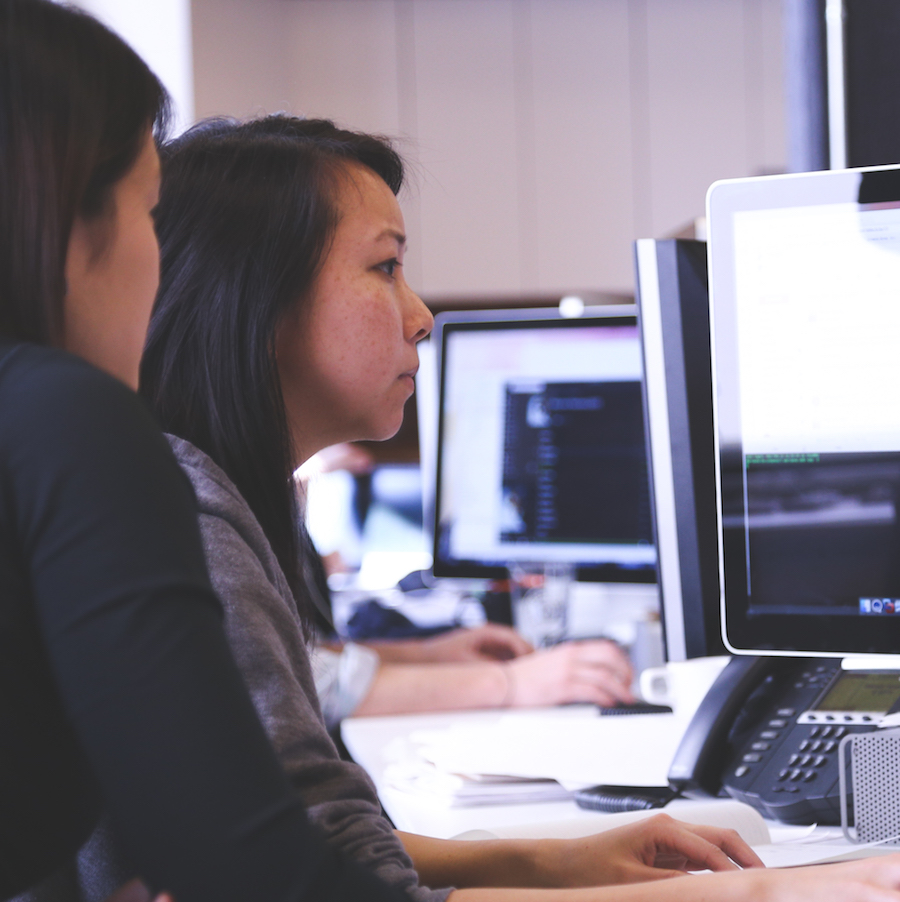
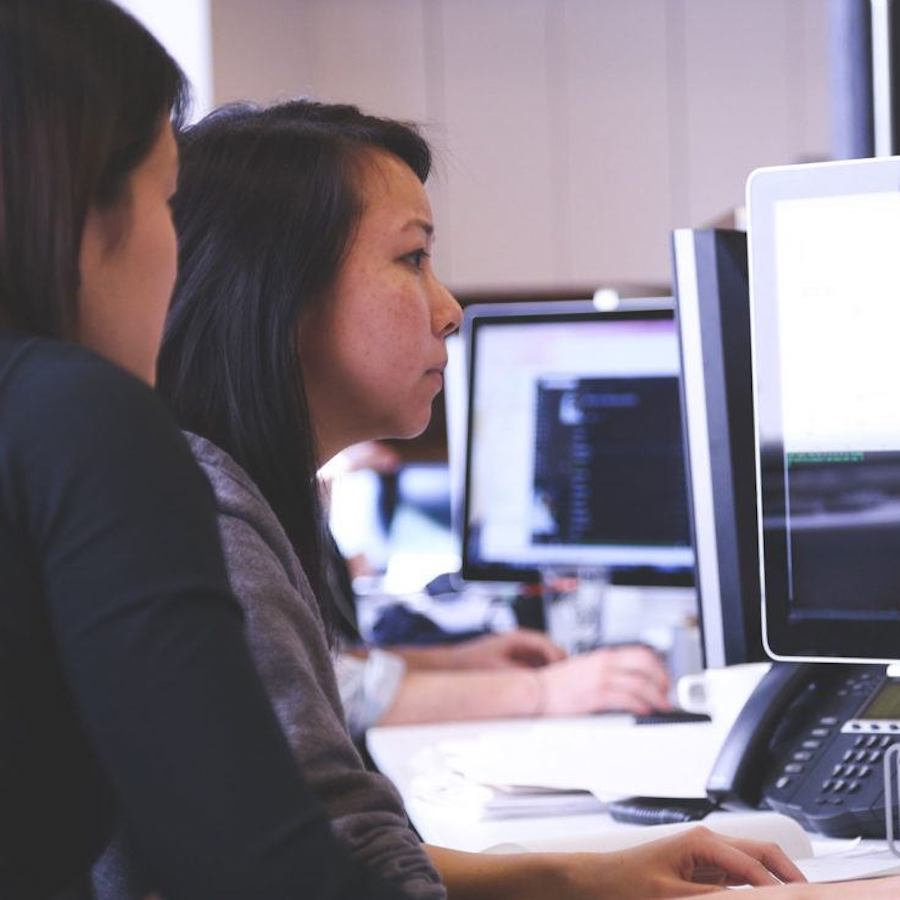
new thumbnails

diff --git a/index.html b/index.html
@@ -93,7 +93,7 @@
                 </div>
               </div>
               <div class="image-widget">
-                <img class="img-fluid" src="static/img/thumbnails/chattie3.png" alt="Smart speaker on table">
+                <img class="img-fluid" src="static/img/thumbnails/ghmm.jpg" alt="Smart speaker on table">
               </div>
               <p>Chattie: For Language Learners <br/> <span class="sub-heading"> Voice UX Design </span></p>
             </a>
@@ -106,7 +106,7 @@
                 </div>
               </div>
               <div class="image-widget">
-                <img class="img-fluid" src="static/img/thumbnails/mock.png" alt="Sketch of two people pair programming">
+                <img class="img-fluid" src="static/img/thumbnails/pair.jpg" alt="Sketch of two people pair programming">
               </div>
               <p>Pair-Programming Partner Search <br/> <span class="sub-heading"> UX Design </span></p>
             </a>
